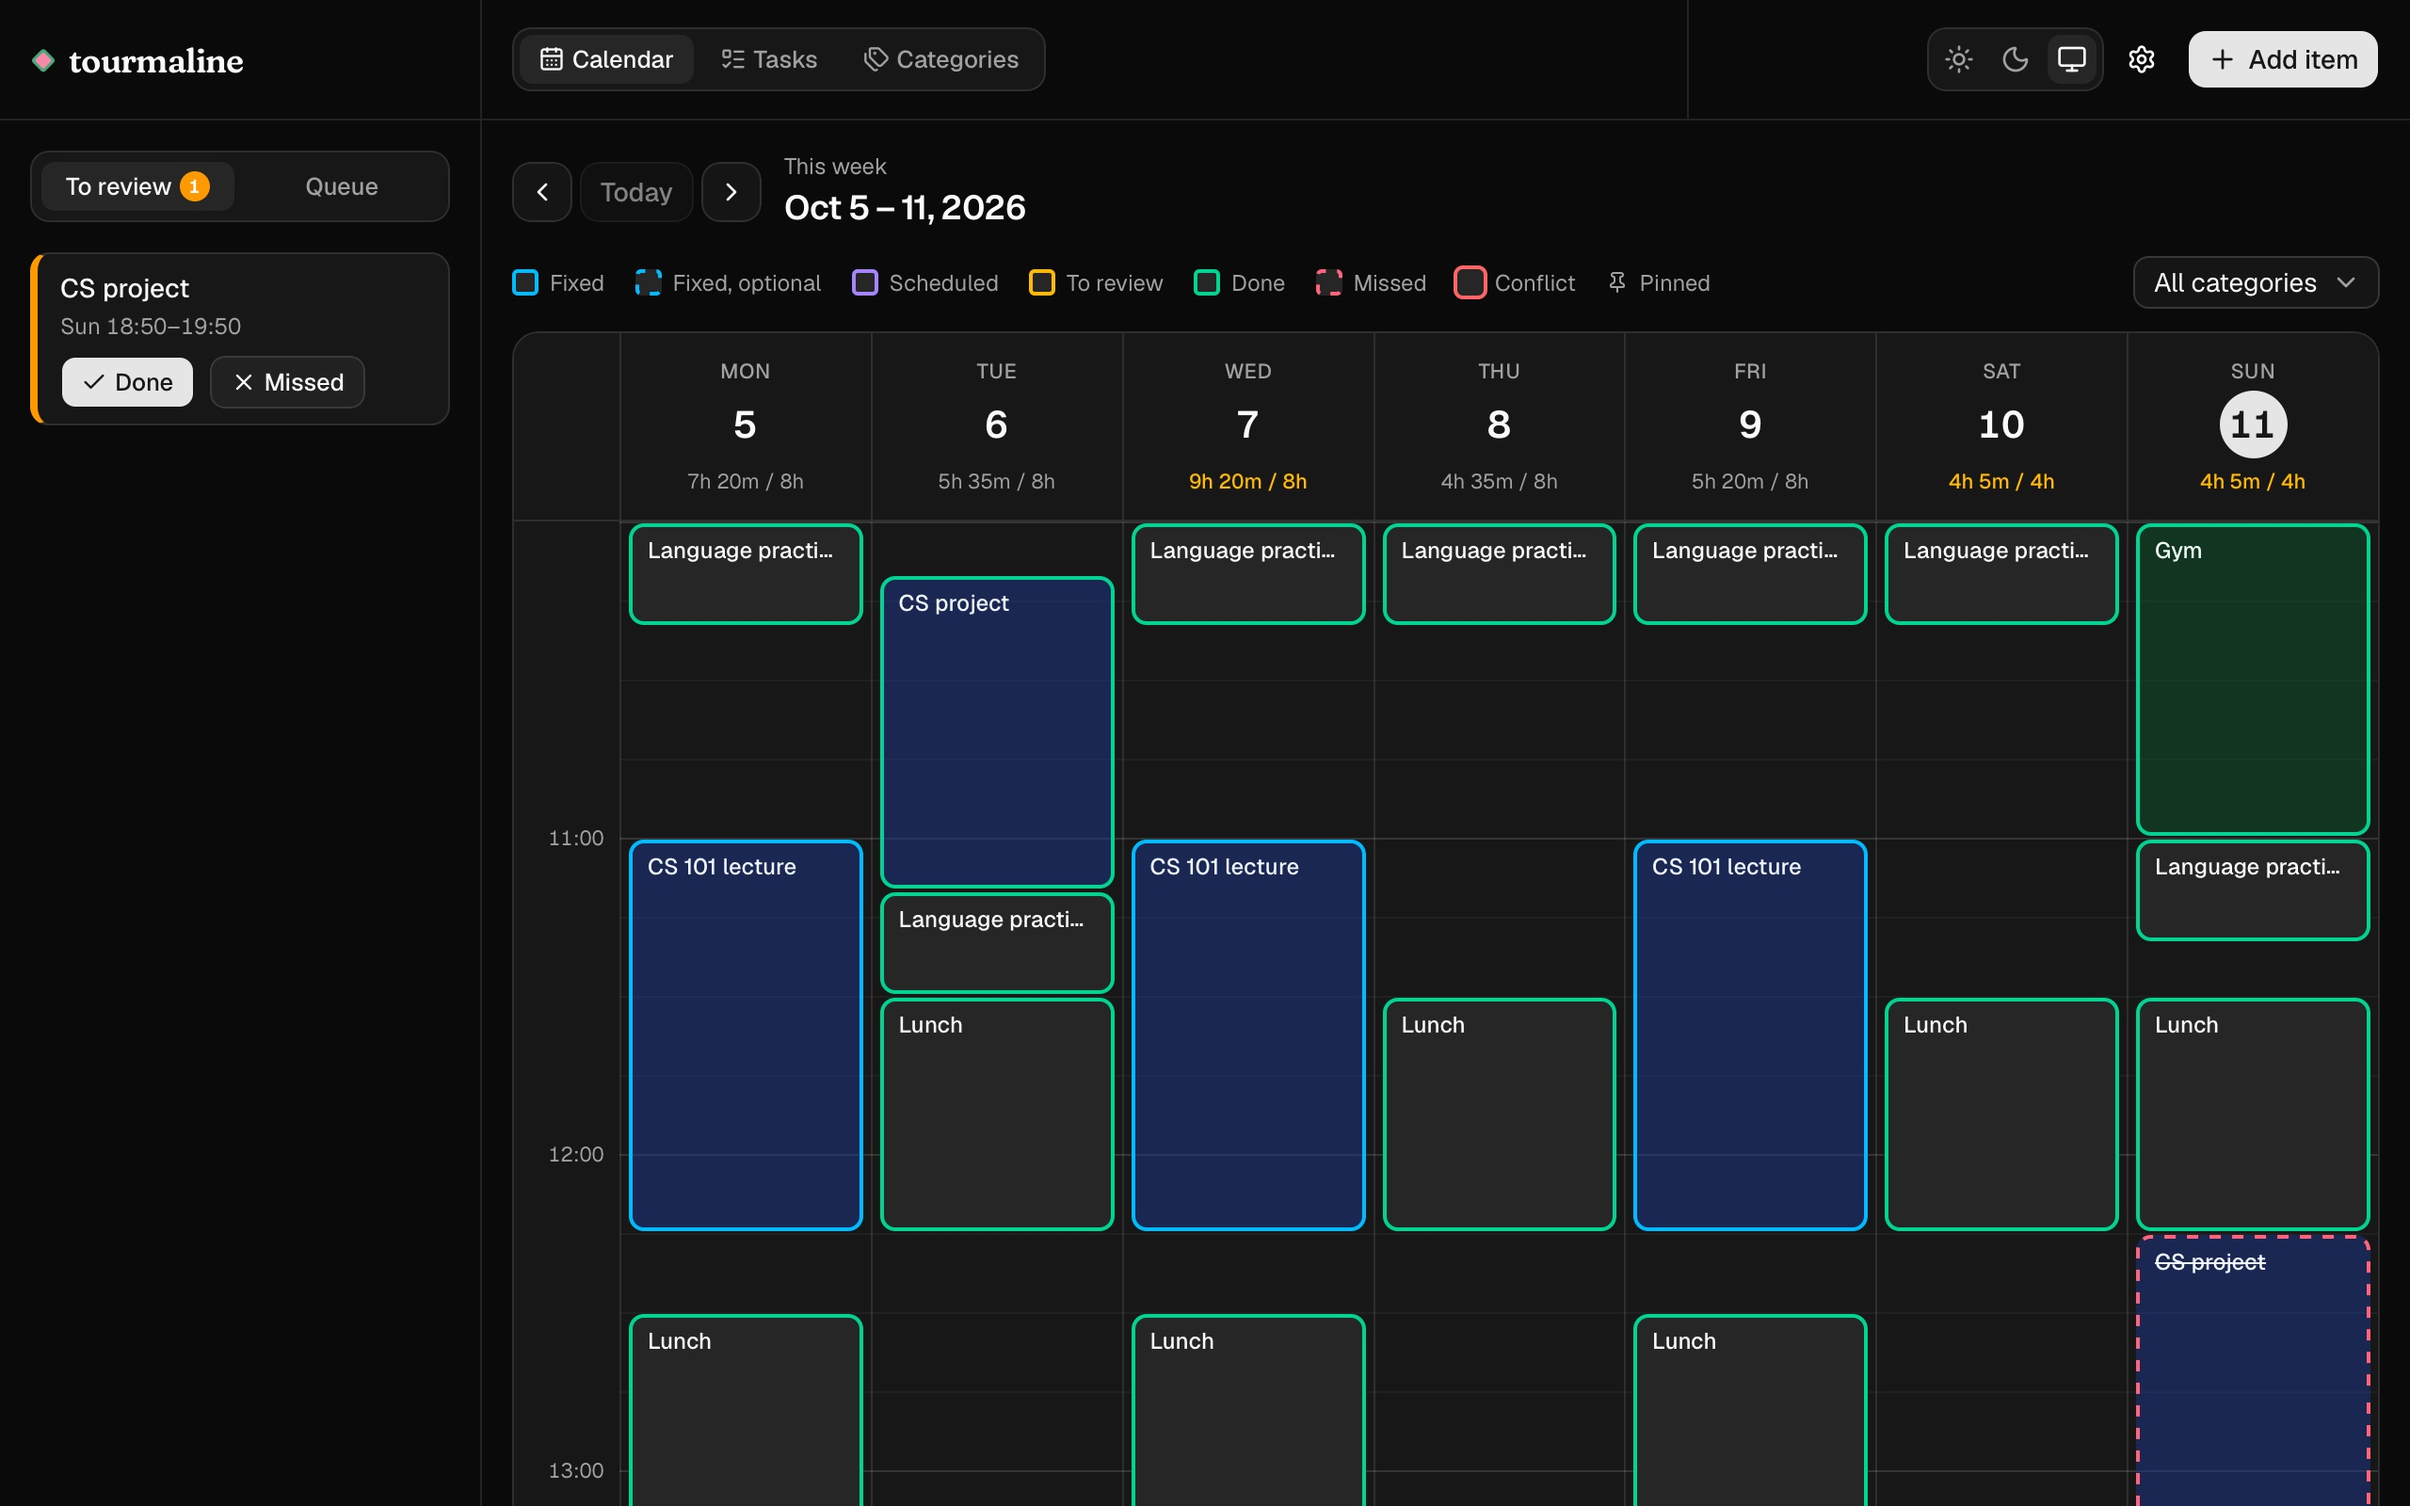
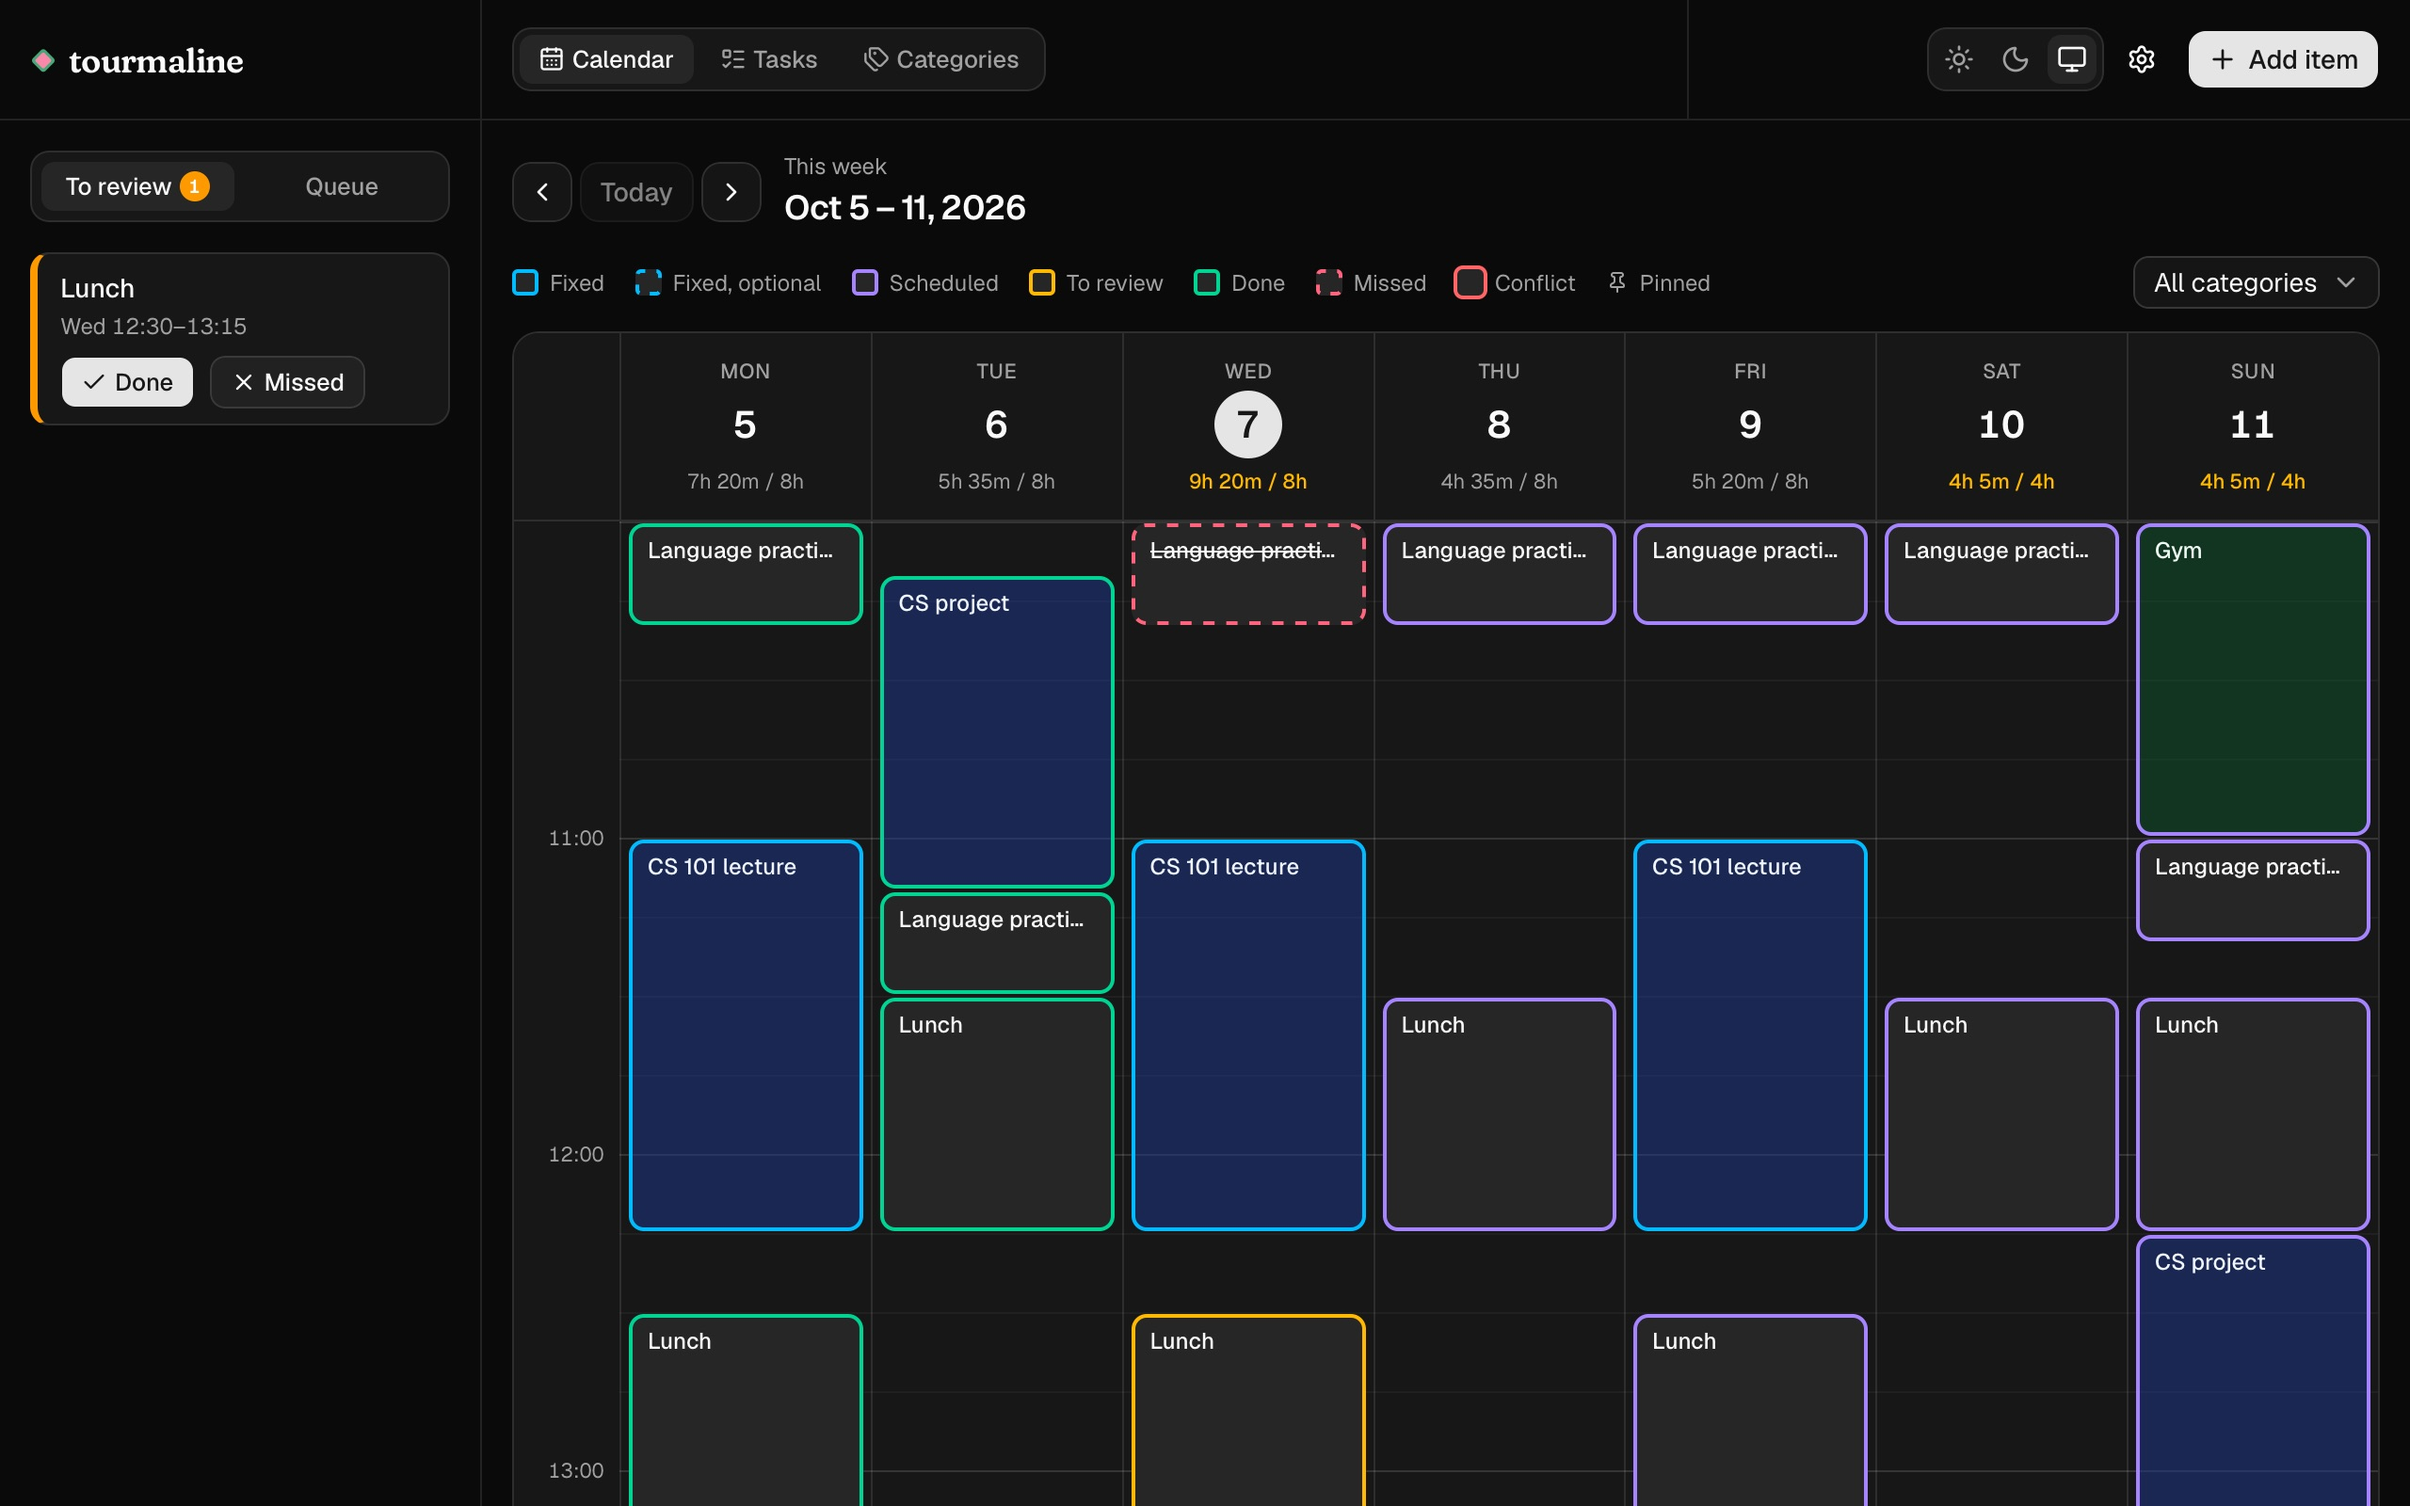
feat(demo): a feature carousel of screenshots on the welcome page

diff --git a/src/components/welcome/screenshot-carousel.tsx b/src/components/welcome/screenshot-carousel.tsx
@@ -1,0 +1,167 @@
+"use client";
+
+import { ChevronLeft, ChevronRight } from "lucide-react";
+import Image from "next/image";
+import { useRef, useState } from "react";
+import { Button } from "@/components/ui/button";
+import { cn } from "@/lib/utils";
+
+/** One feature per slide; `label` names it in the step row. Each `id` has `public/welcome/<id>-{light,dark}.jpg`. */
+const SLIDES = [
+  {
+    id: "week",
+    label: "Your week",
+    title: "Your week, planned",
+    caption: "Events stay where you put them. Tasks fill the free time between them, each before its deadline.",
+  },
+  {
+    id: "add",
+    label: "Adding",
+    title: "Add a task, not a time",
+    caption: "Give it a length and a due date. Tourmaline picks the time, so you never hunt for a free slot.",
+  },
+  {
+    id: "split",
+    label: "Splitting",
+    title: "Big tasks, broken up",
+    caption:
+      "Eight hours of project work becomes one- to two-hour blocks, spread evenly through the week instead of one long day.",
+  },
+  {
+    id: "repeat",
+    label: "Repeating",
+    title: "Set it once",
+    caption:
+      "Lectures, workouts, lunch: make anything repeat daily or weekly, on the days you pick. Each one is planned on its own.",
+  },
+  {
+    id: "priority",
+    label: "Priority",
+    title: "What matters keeps its time",
+    caption:
+      "Give each task a priority. When the week gets tight, lower-priority tasks make room first, and the important ones stay where they are.",
+  },
+  {
+    id: "queue",
+    label: "The queue",
+    title: "Warned in time",
+    caption:
+      "Twenty hours of work due tomorrow won't fit. Instead of overbooking you, Tourmaline keeps it in the queue, so you know today.",
+  },
+  {
+    id: "missed",
+    label: "Missed",
+    title: "Missed it? Just say so",
+    caption:
+      "When a block doesn't happen, one click marks it missed and its time goes back into the plan, somewhere free before the deadline. You never rebuild your week by hand.",
+  },
+  {
+    id: "categories",
+    label: "Categories",
+    title: "Sort it by colour",
+    caption:
+      "Put items into categories, each with its own colour, and filter the calendar to one of them to see just that part of your week.",
+  },
+];
+
+export function ScreenshotCarousel() {
+  const track = useRef<HTMLDivElement>(null);
+  const [shown, setShown] = useState(0);
+  // The slide a button is scrolling to; until it arrives, the scroll events on the way don't change `shown`.
+  const target = useRef<number | null>(null);
+
+  function show(index: number) {
+    const element = track.current!;
+    target.current = index;
+    element.scrollTo({ left: index * element.clientWidth, behavior: "smooth" });
+    setShown(index);
+  }
+
+  function onScroll(element: HTMLDivElement) {
+    const index = Math.round(element.scrollLeft / element.clientWidth);
+    if (target.current !== null && index !== target.current) return;
+    target.current = null;
+    setShown(index);
+  }
+
+  return (
+    <section aria-roledescription="carousel" aria-label="What it does" className="flex flex-col gap-4">
+      <div className="flex items-end justify-between gap-4">
+        <ol className="hidden flex-wrap gap-x-5 gap-y-2 md:flex">
+          {SLIDES.map(({ id, label }, index) => (
+            <li key={id}>
+              <button
+                type="button"
+                onClick={() => show(index)}
+                aria-current={index === shown ? "step" : undefined}
+                className="border-b-2 border-transparent pb-1 text-sm text-muted-foreground transition-colors hover:text-foreground aria-[current=step]:border-gem-rim aria-[current=step]:text-foreground"
+              >
+                <span className="mr-1.5 font-display tabular-nums">{index + 1}</span>
+                {label}
+              </button>
+            </li>
+          ))}
+        </ol>
+        <p className="text-sm text-muted-foreground tabular-nums md:hidden">
+          {shown + 1} / {SLIDES.length}
+        </p>
+        <div className="flex shrink-0 gap-1">
+          <Button
+            variant="outline"
+            size="icon"
+            aria-label="Previous"
+            disabled={shown === 0}
+            onClick={() => show(shown - 1)}
+          >
+            <ChevronLeft />
+          </Button>
+          <Button
+            variant="outline"
+            size="icon"
+            aria-label="Next"
+            disabled={shown === SLIDES.length - 1}
+            onClick={() => show(shown + 1)}
+          >
+            <ChevronRight />
+          </Button>
+        </div>
+      </div>
+
+      <div
+        ref={track}
+        onScroll={(event) => onScroll(event.currentTarget)}
+        onPointerDown={() => (target.current = null)}
+        onWheel={() => (target.current = null)}
+        className="flex snap-x snap-mandatory [scrollbar-width:none] overflow-x-auto"
+      >
+        {SLIDES.map(({ id, title, caption }, index) => (
+          <figure
+            key={id}
+            aria-roledescription="slide"
+            aria-label={`${index + 1} of ${SLIDES.length}: ${title}`}
+            className="flex w-full shrink-0 snap-start flex-col gap-3"
+          >
+            <figcaption>
+              <span className="font-display text-xl font-medium tracking-tight">{title}.</span>{" "}
+              <span className="text-muted-foreground">{caption}</span>
+            </figcaption>
+            <div className="overflow-hidden rounded-md border shadow-sm">
+              {(["light", "dark"] as const).map((theme) => (
+                <Image
+                  key={theme}
+                  src={`/welcome/${id}-${theme}.jpg`}
+                  alt=""
+                  width={2560}
+                  height={1600}
+                  sizes="(min-width: 56rem) 52rem, 100vw"
+                  priority={index === 0}
+                  className={cn(theme === "light" ? "dark:hidden" : "hidden dark:block")}
+                />
+              ))}
+            </div>
+          </figure>
+        ))}
+      </div>
+    </section>
+  );
+}

diff --git a/src/app/welcome/page.tsx b/src/app/welcome/page.tsx
@@ -1,8 +1,8 @@
 import type { Metadata } from "next";
-import Image from "next/image";
 import { redirect } from "next/navigation";
 import { connection } from "next/server";
 import { APP_NAME, Wordmark } from "@/components/shell/wordmark";
+import { ScreenshotCarousel } from "@/components/welcome/screenshot-carousel";
 import { StartDemoButton } from "@/components/welcome/start-demo-button";
 import { startDemoAction } from "@/server/demo/actions";
 import { DEMO_MODE, sessionWorkspace } from "@/server/workspaces/current-workspace";
@@ -26,12 +26,6 @@ const STEPS = [
     "You find out early when it won't fit.",
     "If the week fills up and there's no longer room for everything before its deadline, the least important task comes off the calendar and waits in a queue. You see that days ahead, not on Friday night.",
   ],
-];
-
-/** Screenshots of the sample week, retaken whenever the calendar's look changes. */
-const SCREENSHOTS = [
-  { src: "/welcome/week-light.jpg", className: "dark:hidden" },
-  { src: "/welcome/week-dark.jpg", className: "hidden dark:block" },
 ];
 
 export default async function Welcome() {
@@ -59,20 +53,7 @@ export default async function Welcome() {
         </form>
       </section>
 
-      <figure className="overflow-hidden rounded-md border shadow-sm">
-        {SCREENSHOTS.map(({ src, className }) => (
-          <Image
-            key={src}
-            src={src}
-            alt="A week in the calendar: fixed events, and tasks placed in the free time between them"
-            width={2560}
-            height={1600}
-            sizes="(min-width: 56rem) 52rem, 100vw"
-            priority
-            className={className}
-          />
-        ))}
-      </figure>
+      <ScreenshotCarousel />
 
       <section>
         <h2 className="font-display text-2xl font-medium tracking-tight">How it works</h2>
